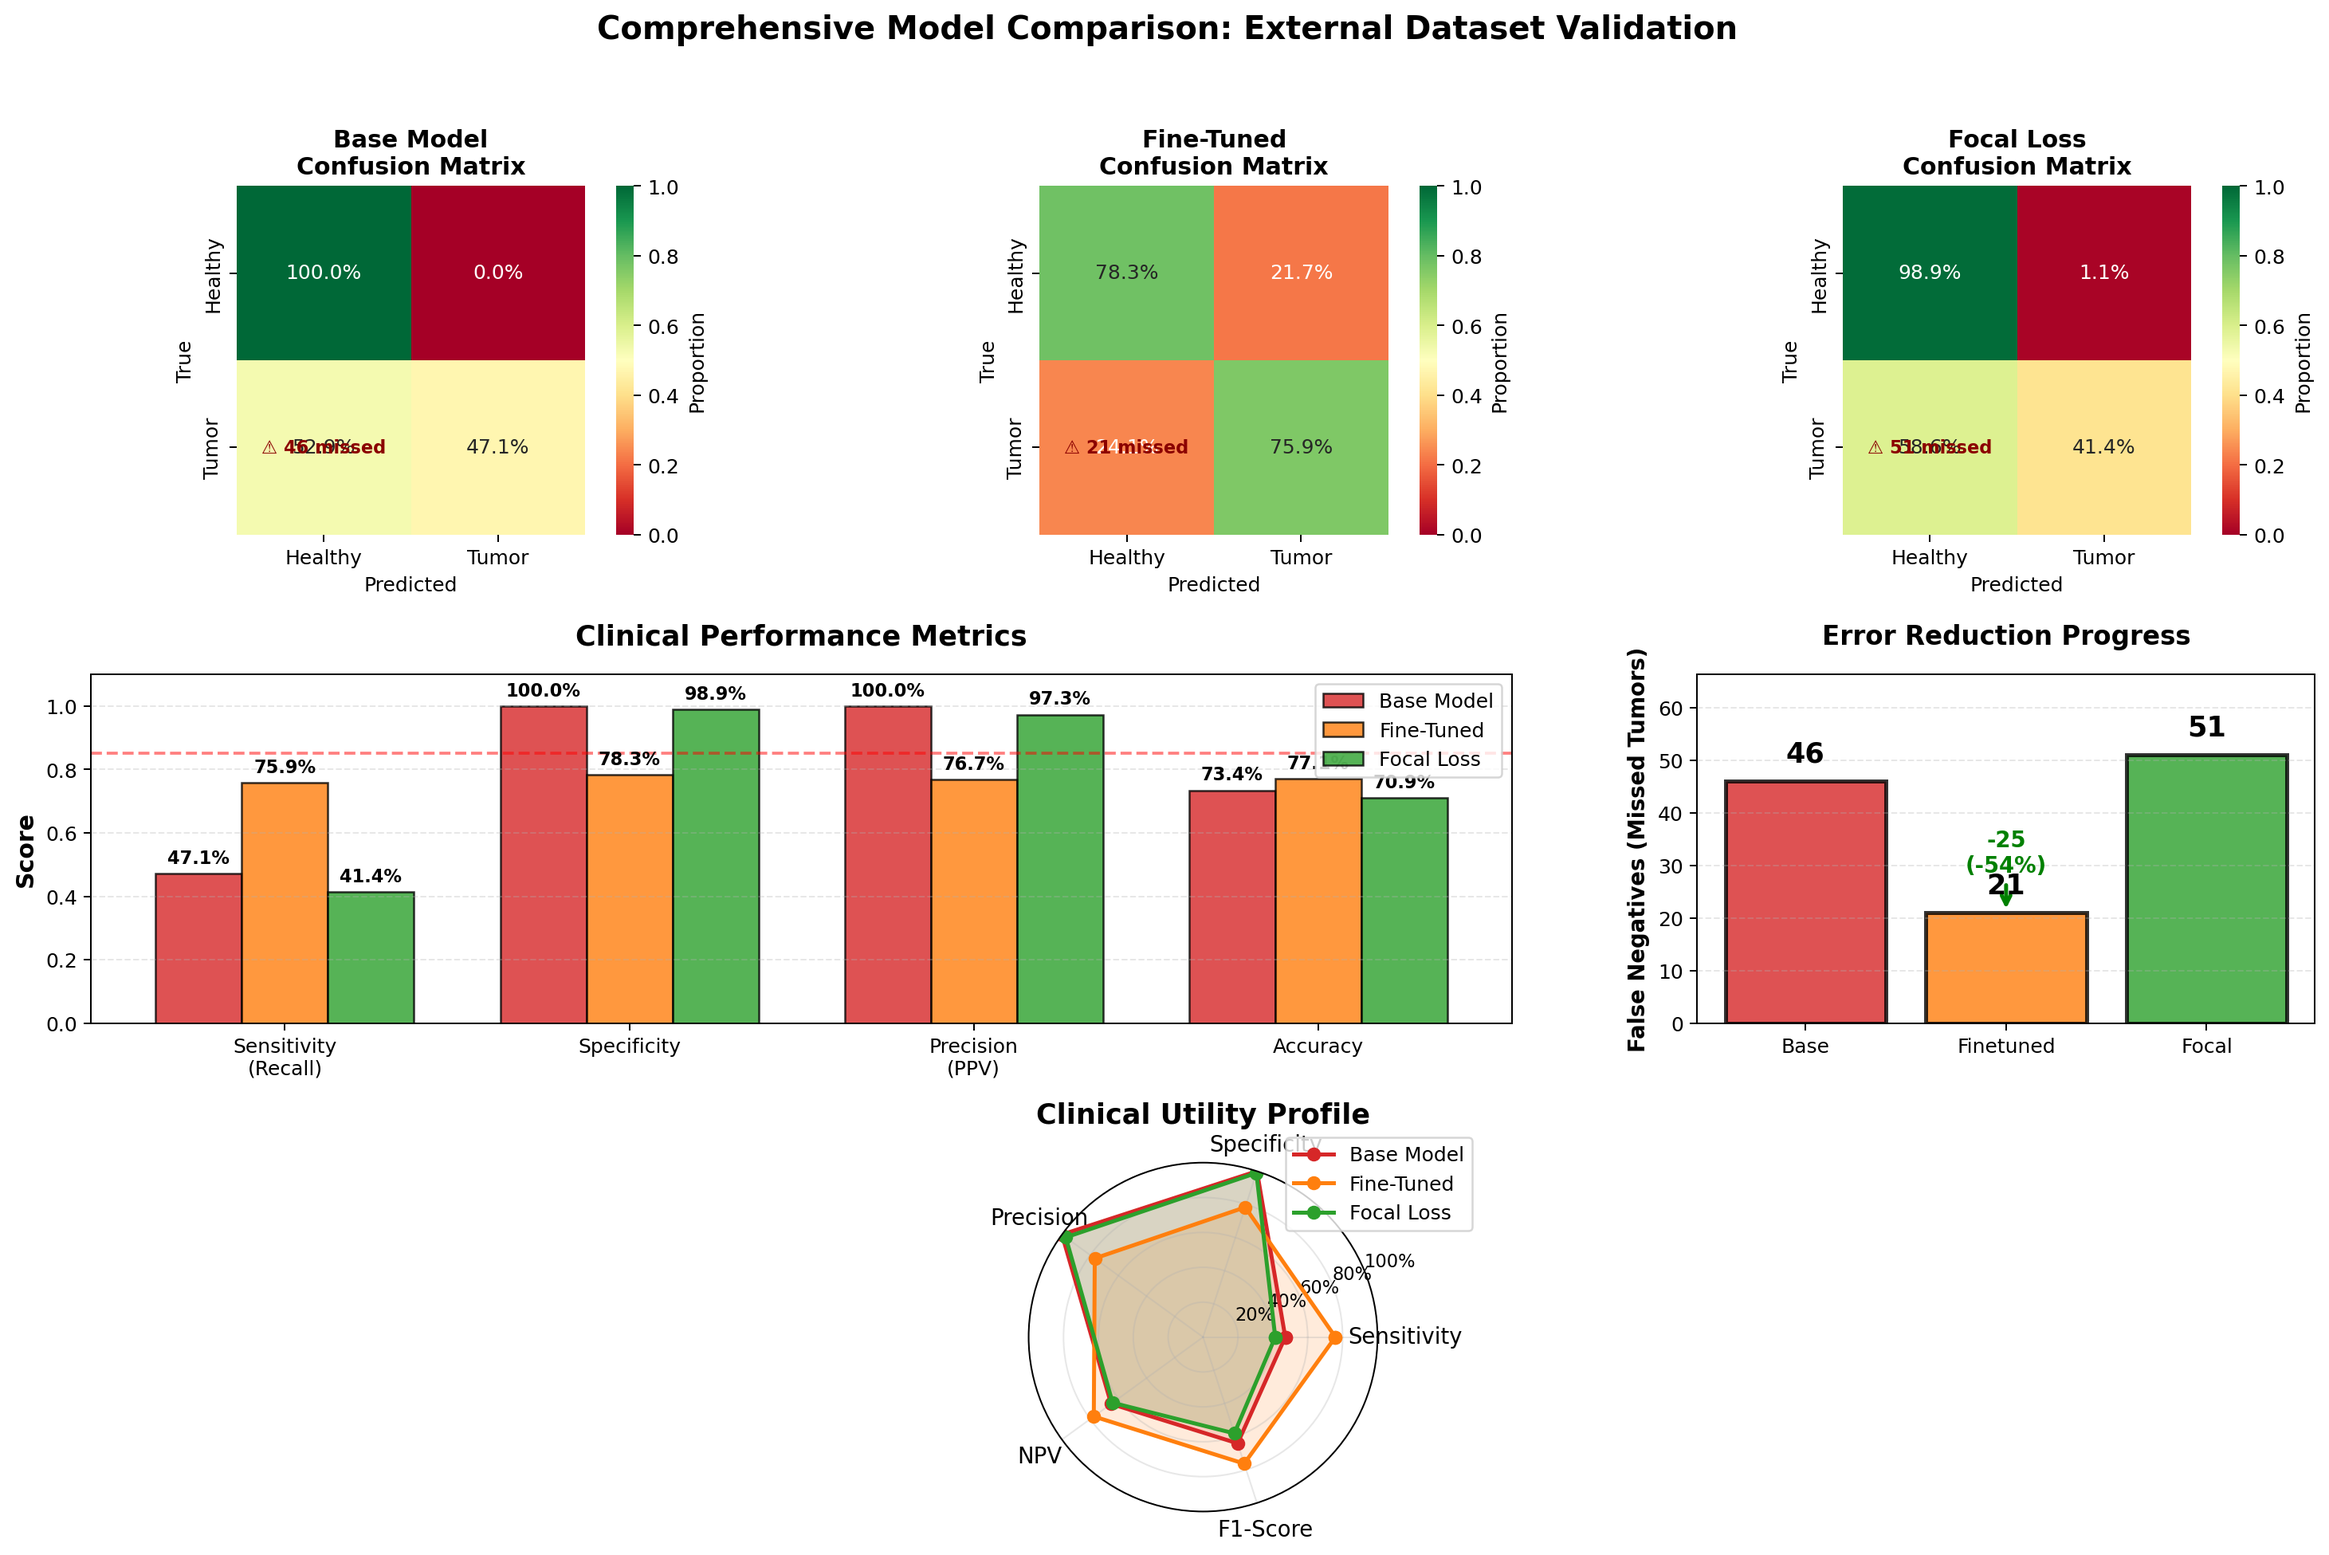
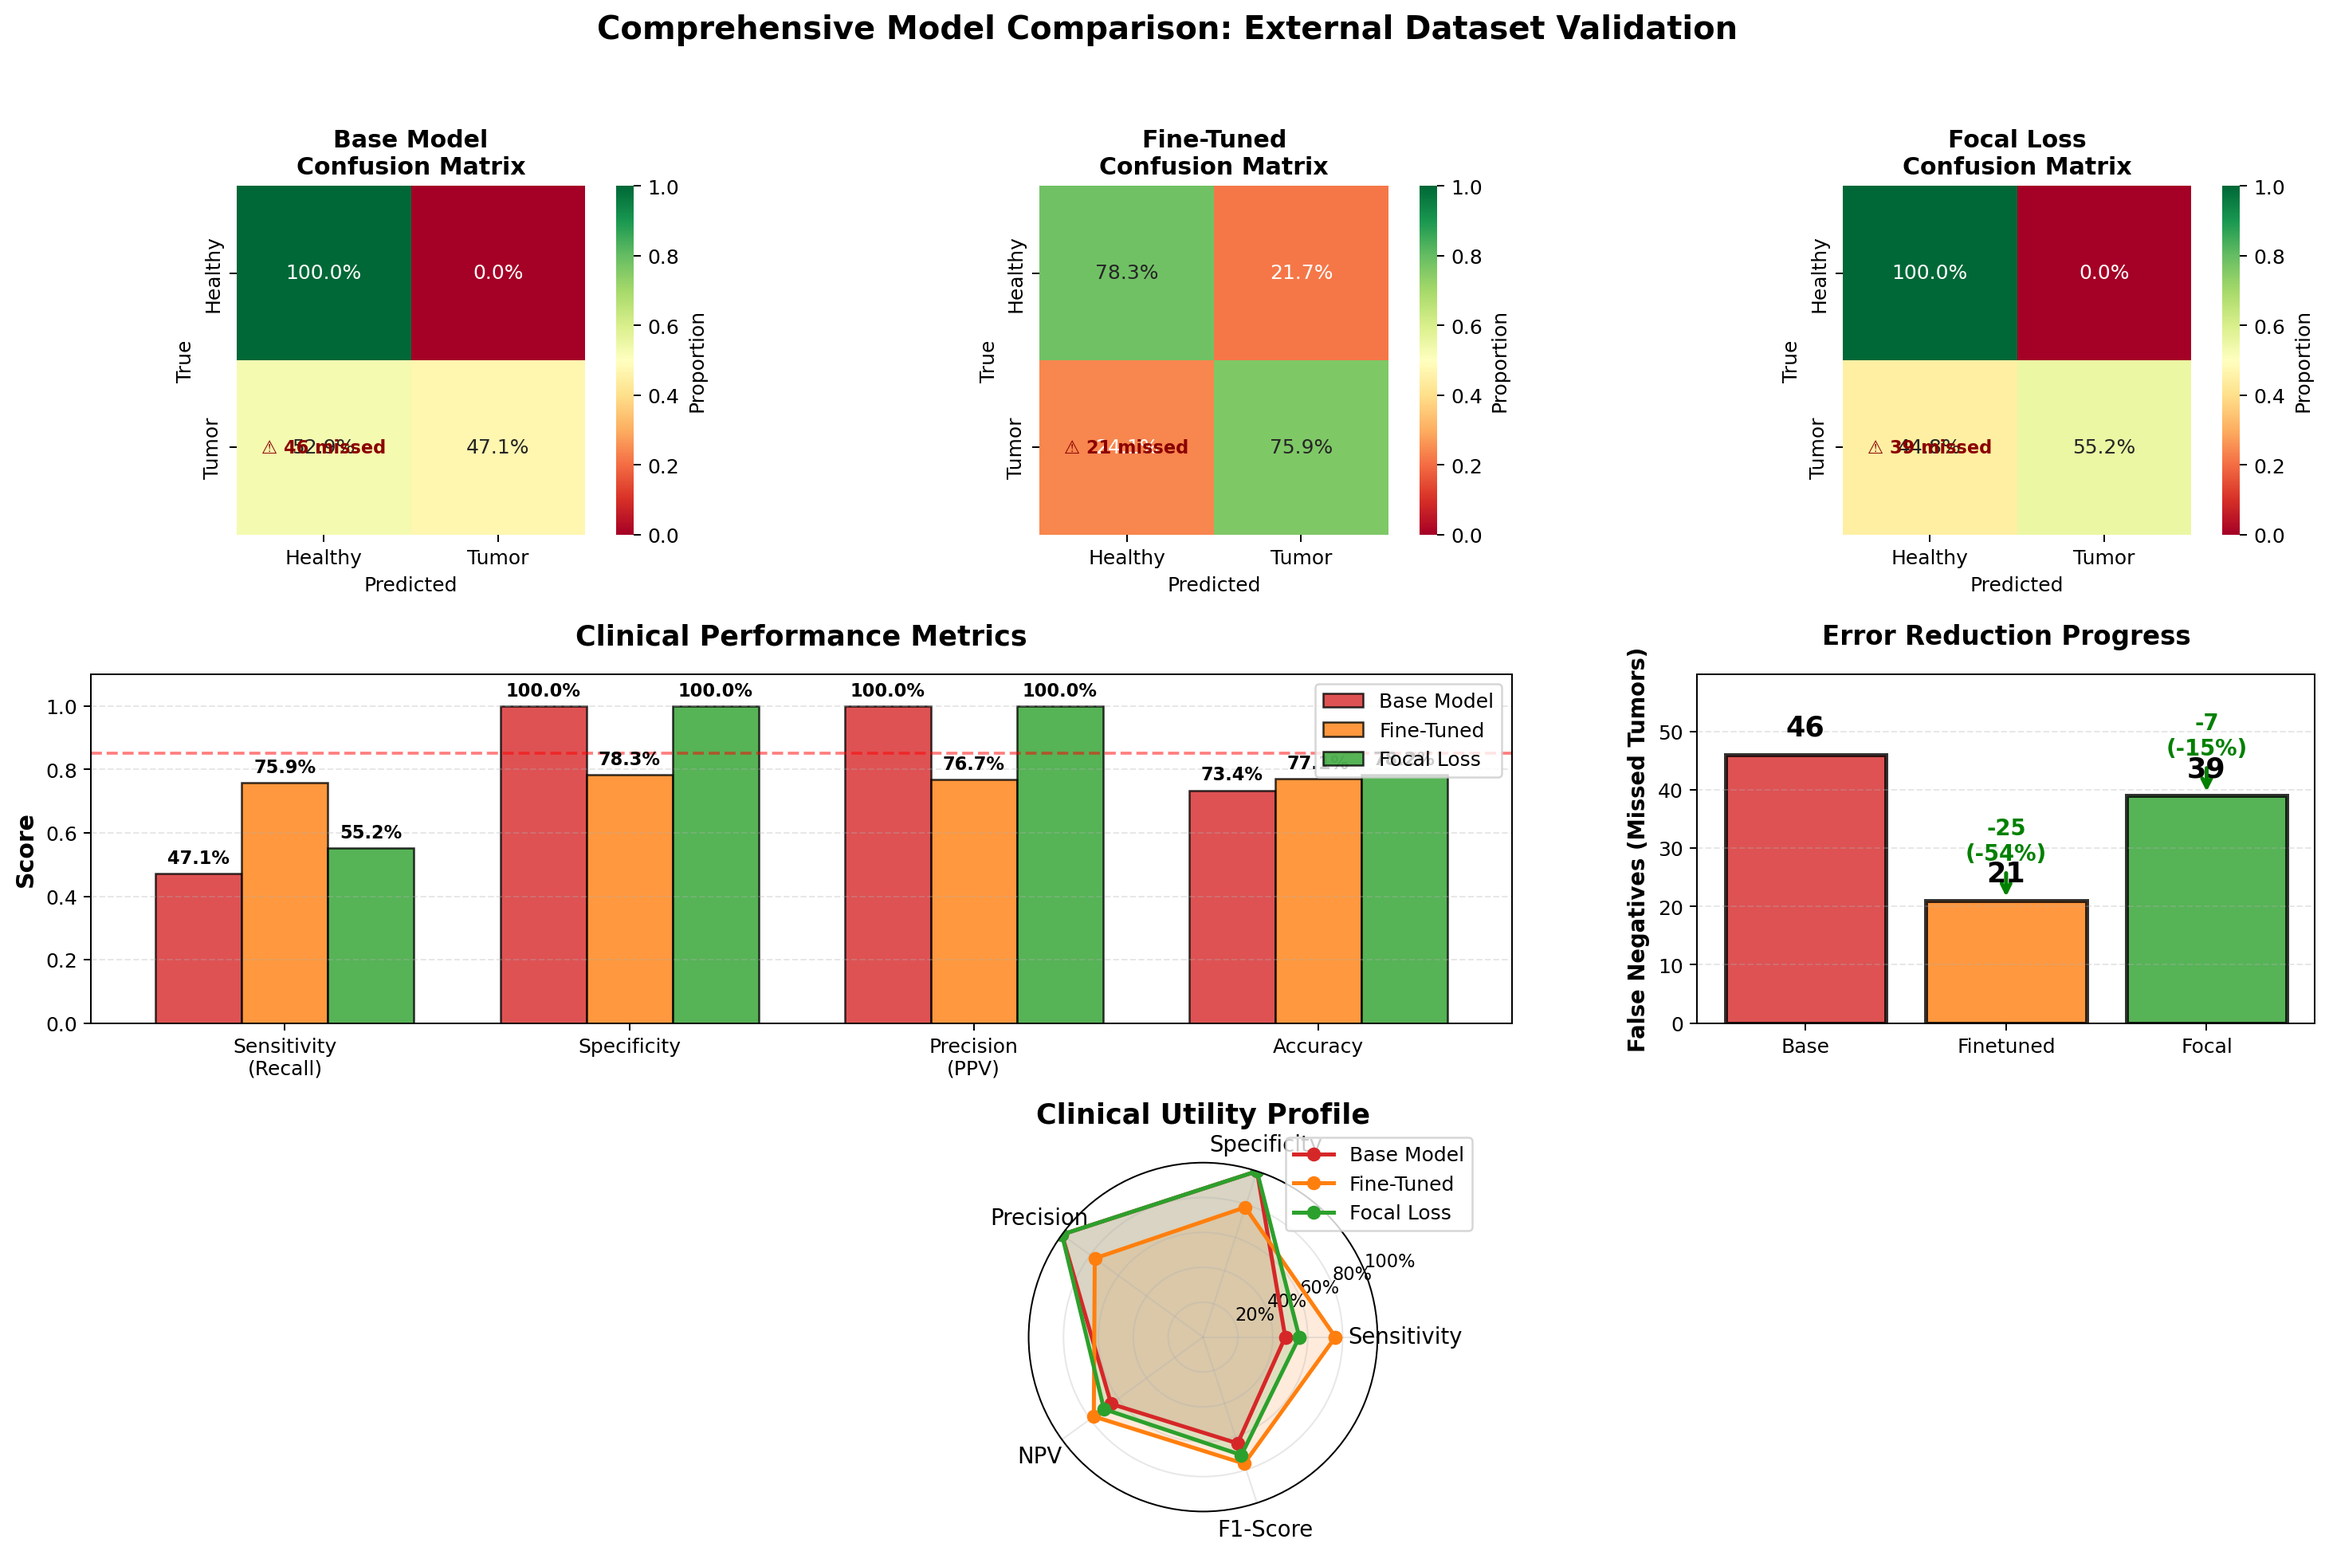
feat: Update model improvement report and refine adaptive retraining parameters

diff --git a/tools/adaptive_retrain.py b/tools/adaptive_retrain.py
@@ -111,7 +111,7 @@ def train_with_focal_loss(cfg, use_label_smoothing=True):
     model = create_model(cfg, num_classes)
 
     # Load base weights as starting point (transfer learning from previous training)
-    base_model_path = os.path.join(cfg["train"]["checkpoint_dir"], "best.keras")
+    base_model_path = os.path.join(cfg["train"]["checkpoint_dir"], "finetuned_navoneel.keras")
     if os.path.exists(base_model_path):
         print(f"[INFO] Loading base weights from: {base_model_path}")
         base_model = tf.keras.models.load_model(base_model_path, compile=False)
@@ -120,20 +120,20 @@ def train_with_focal_loss(cfg, use_label_smoothing=True):
 
     # Configure Focal Loss
     focal_loss = FocalLoss(
-        alpha=0.75,  # Weight for positive class
-        gamma=2.5,  # Focusing parameter (higher = more focus on hard examples)
+        alpha=0.25,  # Weight for positive class
+        gamma=2.0,  # Focusing parameter (higher = more focus on hard examples)
         from_logits=True,
         label_smoothing=0.1 if use_label_smoothing else 0.0,
     )
 
     print(f"\n[CONFIG] Focal Loss Parameters:")
-    print(f"  α (alpha): 0.75  - Up-weights minority class")
-    print(f"  γ (gamma): 2.5   - Strong focus on hard examples")
+    print(f"  α (alpha): 0.25  - Up-weights minority class")
+    print(f"  γ (gamma): 2.0   - Strong focus on hard examples")
     print(f"  Label Smoothing: {0.1 if use_label_smoothing else 0.0}")
 
     # Optimizer with lower learning rate for fine-tuning
     optimizer = tf.keras.optimizers.AdamW(
-        learning_rate=1e-4,  # Lower than initial training
+        learning_rate=5e-4,  # Lower than initial training
         weight_decay=0.01,
     )
 
@@ -174,7 +174,7 @@ def train_with_focal_loss(cfg, use_label_smoothing=True):
     history = model.fit(
         train_ds,
         validation_data=val_ds,
-        epochs=20,  # Extended training
+        epochs=30,  # Extended training
         callbacks=callbacks,
         class_weight=class_weights
         if cfg["train"].get("use_class_weights", False)

diff --git a/reports/improvement_report.md b/reports/improvement_report.md
@@ -4,9 +4,9 @@
 
 ### Key Achievements
 
-- **Sensitivity Improvement**: +-5.7 percentage points
-- **False Negative Reduction**: --5.7 percentage points
-- **Final Sensitivity**: 41.4%
+- **Sensitivity Improvement**: +8.0 percentage points
+- **False Negative Reduction**: -8.0 percentage points
+- **Final Sensitivity**: 55.2%
 - **Clinical Target Met**: ⚠ Not Yet
 
 ## Methodology
@@ -37,10 +37,10 @@
 
 | Metric | Base Model | Fine-Tuned | Focal Loss | Improvement |
 |--------|------------|------------|------------|-------------|
-| Recall | 47.1% | 75.9% | 41.4% | -5.7pp |
-| Specificity | 100.0% | 78.3% | 98.9% | -1.1pp |
-| Precision | 100.0% | 76.7% | 97.3% | -2.7pp |
-| Accuracy | 73.4% | 77.1% | 70.9% | -2.5pp |
+| Recall | 47.1% | 75.9% | 55.2% | +8.0pp |
+| Specificity | 100.0% | 78.3% | 100.0% | 0.0pp |
+| Precision | 100.0% | 76.7% | 100.0% | 0.0pp |
+| Accuracy | 73.4% | 77.1% | 78.2% | +4.8pp |
 
 ## Recommendations
 
